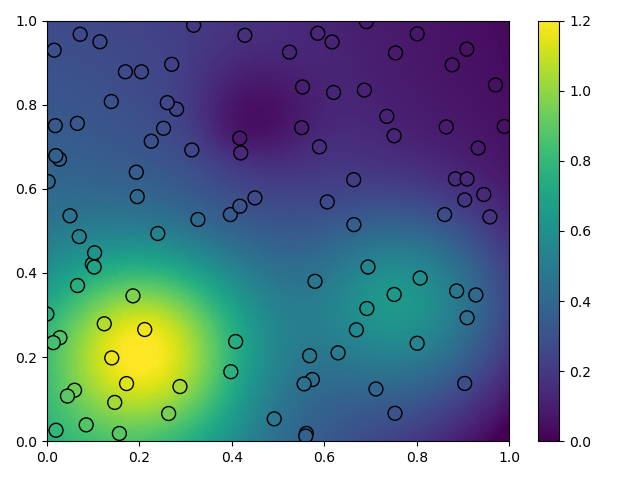
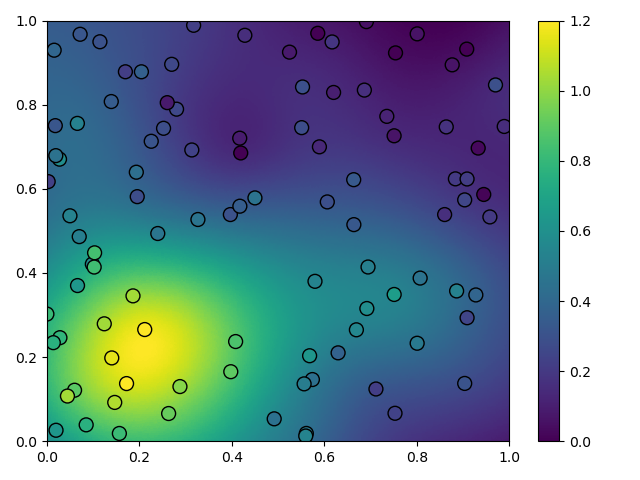
added example of picking optimal smoothing parameters

diff --git a/docs/scripts/interpolate.g.py b/docs/scripts/interpolate.g.py
@@ -1,0 +1,67 @@
+'''
+Interpolating noisy scattered observations of Franke's test function with
+smoothed RBFs.
+'''
+import numpy as np
+from rbf.interpolate import RBFInterpolant
+import matplotlib.pyplot as plt
+import logging
+
+logging.basicConfig(level=logging.INFO)
+np.random.seed(1)
+
+def frankes_test_function(x):
+    '''A commonly used test function for interpolation'''
+    x1, x2 = x[:, 0], x[:, 1]
+    term1 = 0.75 * np.exp(-(9*x1-2)**2/4 - (9*x2-2)**2/4)
+    term2 = 0.75 * np.exp(-(9*x1+1)**2/49 - (9*x2+1)/10)
+    term3 = 0.5 * np.exp(-(9*x1-7)**2/4 - (9*x2-3)**2/4)
+    term4 = -0.2 * np.exp(-(9*x1-4)**2 - (9*x2-7)**2)
+    y = term1 + term2 + term3 + term4
+    return y
+
+# observation points
+x_obs = np.random.random((100, 2))
+# noisy values at the observation points
+u_obs = frankes_test_function(x_obs) + np.random.normal(0.0, 0.1, (100,))
+# evaluation points
+x_itp = np.mgrid[0:1:200j, 0:1:200j].reshape(2, -1).T
+
+# automatically select a smoothing parameter that minimizes the leave-one-out
+# cross validation (LOOCV) score.
+interp = RBFInterpolant(x_obs, u_obs, sigma='auto')
+# interpolated values at the evaluation points
+u_itp = interp(x_itp)
+
+# We could also minimize the LOOCV score ourselves with the `loocv` method.
+# This may be helpful for better exploring the objective function.
+sigmas = 10**np.linspace(-2.5, 0.5, 100)
+loocvs = [interp.loocv(x_obs, u_obs, sigma=s) for s in sigmas]
+opt_sigma = sigmas[np.argmin(loocvs)]
+print('optimal sigma: %s' % opt_sigma)
+
+# plot the results
+plt.figure(1)
+plt.tripcolor(
+    x_itp[:, 0], x_itp[:, 1], u_itp, cmap='viridis', vmin=0.0, vmax=1.2
+    )
+plt.scatter(
+    x_obs[:, 0], x_obs[:, 1], s=100, c=u_obs, cmap='viridis', vmin=0.0,
+    vmax=1.2, edgecolor='k'
+    )
+plt.xlim(0, 1)
+plt.ylim(0, 1)
+plt.colorbar()
+plt.title('Noisy observations and smoothed interpolant')
+plt.tight_layout()
+plt.savefig('../figures/interpolate.g.1.png')
+
+plt.figure(2)
+plt.loglog(sigmas, loocvs, 'k-')
+plt.plot([opt_sigma], [np.min(loocvs)], 'ko')
+plt.grid()
+plt.xlabel('smoothing parameter')
+plt.ylabel('LOOCV')
+plt.tight_layout()
+plt.savefig('../figures/interpolate.g.2.png')
+plt.show()

diff --git a/docs/source/interpolate.rst b/docs/source/interpolate.rst
@@ -9,6 +9,10 @@ Examples
 .. literalinclude:: ../scripts/interpolate.f.py
 .. image:: ../figures/interpolate.f.png
 
+.. literalinclude:: ../scripts/interpolate.g.py
+.. image:: ../figures/interpolate.g.1.png
+.. image:: ../figures/interpolate.g.2.png
+
 .. literalinclude:: ../scripts/interpolate.b.py
 .. image:: ../figures/interpolate.b.1.png
 .. image:: ../figures/interpolate.b.2.png
